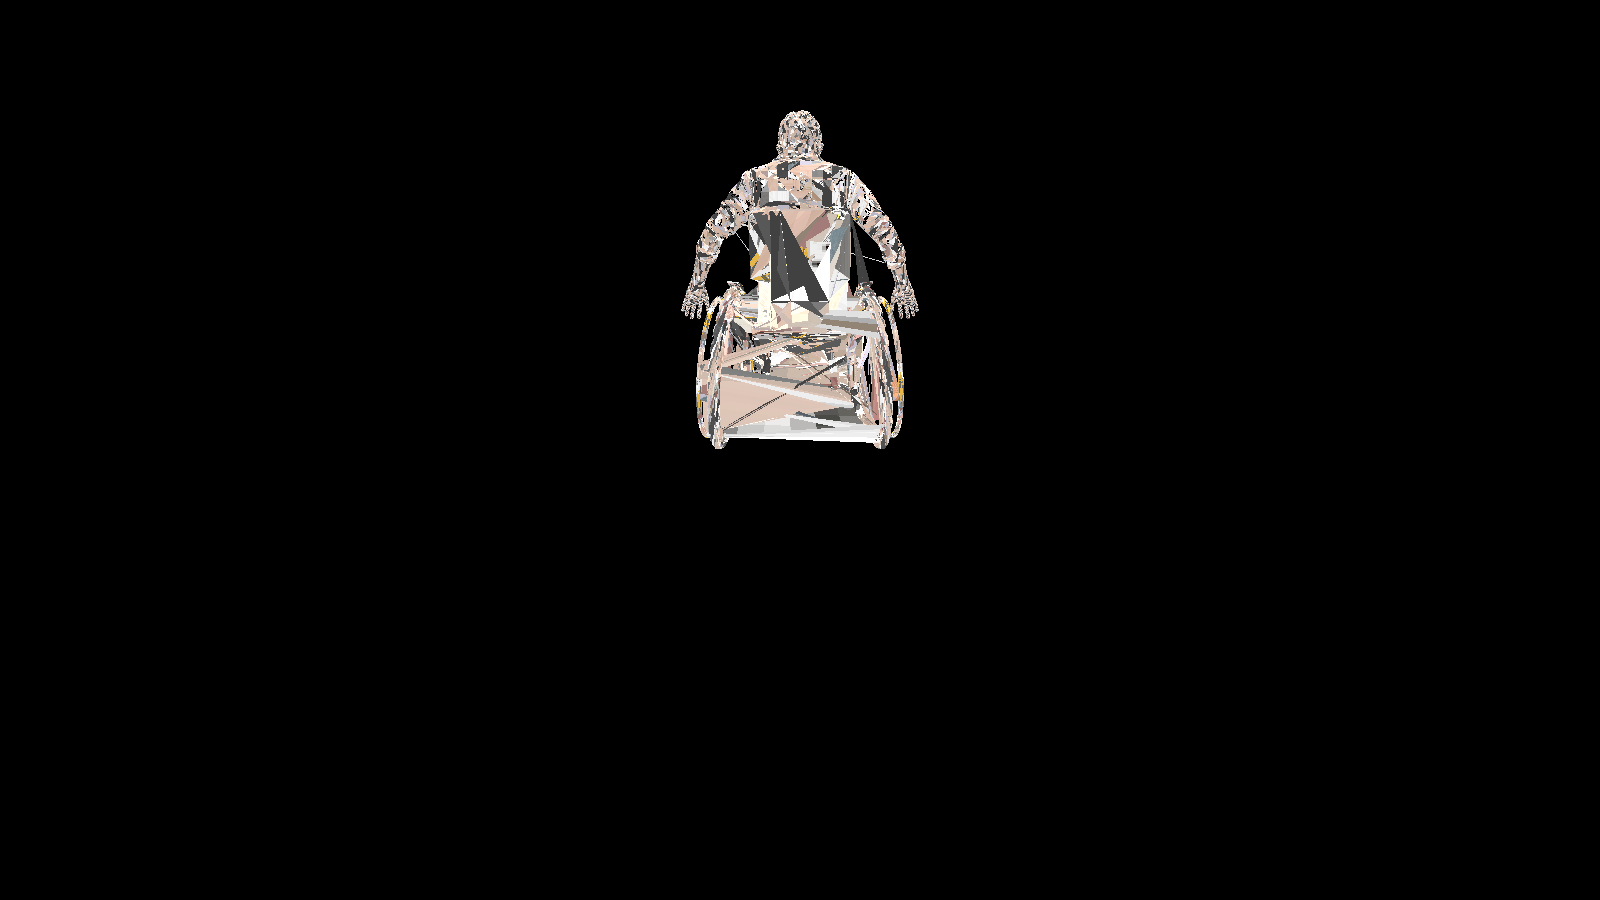
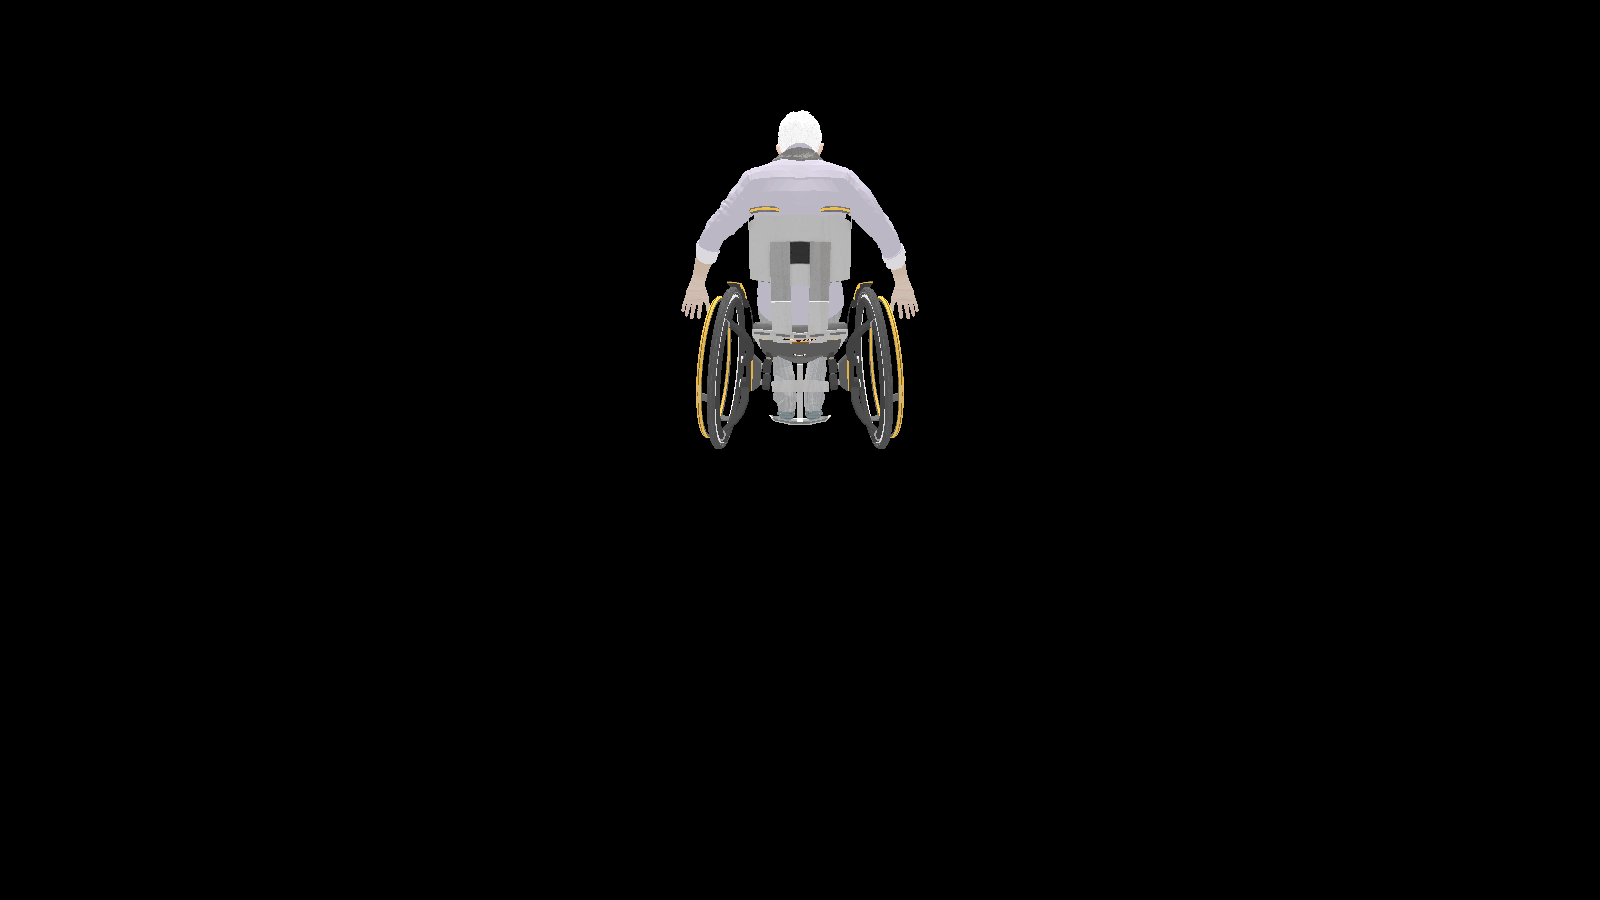
Now i read Obj files and mtl, this is going to get crazy

Changed region(s): [[0.4062, 0.1244, 0.5938, 0.4978]]

diff --git a/RaytracerV07/src/edu/up/isgc/raytracer/files/Obj.java b/RaytracerV07/src/edu/up/isgc/raytracer/files/Obj.java
@@ -1,16 +1,31 @@
 package edu.up.isgc.raytracer.files;
 
 import edu.up.isgc.raytracer.Vector3D;
+import edu.up.isgc.raytracer.lighting.Material;
+import edu.up.isgc.raytracer.shapes.Triangle;
 import edu.up.isgc.raytracer.shapes.models.Face;
 import edu.up.isgc.raytracer.shapes.models.Polygon;
 import edu.up.isgc.raytracer.world.Scene;
 
+import java.awt.*;
+import java.io.BufferedReader;
+import java.io.File;
+import java.io.FileReader;
+import java.io.IOException;
+import java.util.ArrayList;
+import java.util.HashMap;
+import java.util.Map;
+import java.util.regex.Pattern;
+
 public class Obj {
+    /*
     public static void RenderObj(Scene scene, String objPath, String mtlPath){
         MTLReader.readMTL(mtlPath);
         scene.addPolygon(new Polygon(objPath));
         Face.clearMaterialMap();
     }
+
+     */
 
     public static void RenderObj(Scene scene, String objPath, String mtlPath, Vector3D rotate, Vector3D scale, Vector3D translation){
         MTLReader.readMTL(mtlPath);
@@ -23,4 +38,217 @@ public class Obj {
         scene.addPolygon(polygon);
         Face.clearMaterialMap();
     }
+
+    // First method: Reads OBJ file and collects data
+    public static ObjData readObjData(String filePath) {
+        ObjData objData = new ObjData();
+        Pattern vertex = Pattern.compile("^v[^a-zA-Z]*");
+        Pattern texture = Pattern.compile("^vt[^a-zA-Z]*");
+        Pattern normal = Pattern.compile("^vn[^a-zA-Z]*");
+        Pattern face = Pattern.compile("^f[^a-zA-Z]*");
+        Pattern mtl = Pattern.compile("^usemtl\\s+.+");
+
+        try (BufferedReader br = new BufferedReader(new FileReader(filePath))) {
+            String line;
+            while ((line = br.readLine()) != null) {
+                line = line.trim();
+
+                if (line.matches(vertex.pattern())) {
+                    Double[] vertexData = FileRead.normalizeDouble(line);
+                    if (vertexData != null) objData.vertices.add(vertexData);
+                }
+                else if (line.matches(texture.pattern())) {
+                    Double[] texCoord = FileRead.normalizeDouble(line);
+                    if (texCoord != null) objData.texCoords.add(texCoord);
+                }
+                else if (line.matches(normal.pattern())) {
+                    Double[] normalVec = FileRead.normalizeDouble(line);
+                    if (normalVec != null) objData.normals.add(normalVec);
+                }
+                else if (line.matches(mtl.pattern())) {
+                    objData.currentMaterial = line.split("\\s+")[1];
+                    System.out.println("Material: " + objData.currentMaterial);
+                }
+                else if (line.matches(face.pattern())) {
+                    Integer[][] faceData = FileRead.normalizeInteger(line);
+                    if (faceData != null) {
+                        objData.faces.add(new FaceData(
+                                faceData[0],
+                                faceData[1],
+                                faceData[2],
+                                objData.currentMaterial
+                        ));
+                    }
+                }
+            }
+        } catch (IOException e) {
+            e.printStackTrace();
+            return null;
+        }
+        return objData;
+    }
+
+    // Second method: Creates triangles from collected data
+    public static Polygon createPolygonFromObjData(ObjData objData) {
+        if (objData == null) return null;
+
+        ArrayList<Triangle> triangles = new ArrayList<>();
+
+        for (FaceData face : objData.faces) {
+            Material material = Material.findByName(face.materialName);
+            if (material == null) {
+                System.err.println("Warning: Material not found - " + face.materialName);
+                material = null; // Default material
+            }
+
+            // Handle both triangles and quads
+            int numTriangles = face.vertexIndices.length == 3 ? 1 : 2;
+
+            for (int i = 0; i < numTriangles; i++) {
+                int[] triVertexIndices;
+                int[] triTexIndices;
+                int[] triNormalIndices;
+
+                if (numTriangles == 1) {
+                    // Single triangle
+                    triVertexIndices = new int[]{face.vertexIndices[0], face.vertexIndices[1], face.vertexIndices[2]};
+                    triTexIndices = new int[]{face.texIndices[0], face.texIndices[1], face.texIndices[2]};
+                    triNormalIndices = new int[]{face.normalIndices[0], face.normalIndices[1], face.normalIndices[2]};
+                } else {
+                    // Quad - split into two triangles
+                    if (i == 0) {
+                        triVertexIndices = new int[]{face.vertexIndices[0], face.vertexIndices[1], face.vertexIndices[2]};
+                        triTexIndices = new int[]{face.texIndices[0], face.texIndices[1], face.texIndices[2]};
+                        triNormalIndices = new int[]{face.normalIndices[0], face.normalIndices[1], face.normalIndices[2]};
+                    } else {
+                        triVertexIndices = new int[]{face.vertexIndices[0], face.vertexIndices[2], face.vertexIndices[3]};
+                        triTexIndices = new int[]{face.texIndices[0], face.texIndices[2], face.texIndices[3]};
+                        triNormalIndices = new int[]{face.normalIndices[0], face.normalIndices[2], face.normalIndices[3]};
+                    }
+                }
+
+                // Create the triangle
+                Triangle triangle = createTriangle(
+                        objData.vertices,
+                        objData.texCoords,
+                        objData.normals,
+                        triVertexIndices,
+                        triTexIndices,
+                        triNormalIndices,
+                        material
+                );
+
+                if (triangle != null) {
+                    triangles.add(triangle);
+                }
+            }
+        }
+
+        return new Polygon(triangles);
+    }
+
+    // Helper method to create a single triangle
+    private static Triangle createTriangle(
+            ArrayList<Double[]> vertices,
+            ArrayList<Double[]> texCoords,
+            ArrayList<Double[]> normals,
+            int[] vertexIndices,
+            int[] texIndices,
+            int[] normalIndices,
+            Material material
+    ) {
+        Vector3D[] triVertices = new Vector3D[3];
+        Vector3D[] triTexCoords = new Vector3D[3];
+        Vector3D[] triNormals = new Vector3D[3];
+
+        for (int j = 0; j < 3; j++) {
+            // Vertices (required)
+            triVertices[j] = new Vector3D(
+                    vertices.get(vertexIndices[j] - 1)[0],
+                    vertices.get(vertexIndices[j] - 1)[1],
+                    vertices.get(vertexIndices[j] - 1)[2]
+            );
+
+            // Texture coordinates (optional)
+            if (!texCoords.isEmpty() && texIndices[j] > 0) {
+                Double[] tex = texCoords.get(texIndices[j] - 1);
+                triTexCoords[j] = new Vector3D(tex[0], tex[1], tex.length > 2 ? tex[2] : 0);
+            }
+
+            // Normals (optional)
+            if (!normals.isEmpty() && normalIndices[j] > 0) {
+                Double[] norm = normals.get(normalIndices[j] - 1);
+                triNormals[j] = new Vector3D(norm[0], norm[1], norm[2]);
+            }
+        }
+
+        // Create the appropriate triangle based on available data
+        if (triTexCoords[0] != null && triNormals[0] != null) {
+            return new Triangle(
+                    triVertices[0], triVertices[1], triVertices[2],
+                    triNormals[0], triNormals[1], triNormals[2],
+                    triTexCoords[0], triTexCoords[1], triTexCoords[2],
+                    null, // parent polygon
+                    material
+            );
+        }
+        else if (triNormals[0] != null) {
+            return new Triangle(
+                    triVertices[0], triVertices[1], triVertices[2],
+                    triNormals[0], triNormals[1], triNormals[2],
+                    Color.WHITE, 0, 0, null
+            );
+        }
+        else {
+            return new Triangle(
+                    triVertices[0], triVertices[1], triVertices[2],
+                    Color.WHITE, 0, 0
+            );
+        }
+    }
+
+    // Data classes to hold intermediate OBJ data
+    private static class ObjData {
+        ArrayList<Double[]> vertices = new ArrayList<>();
+        ArrayList<Double[]> texCoords = new ArrayList<>();
+        ArrayList<Double[]> normals = new ArrayList<>();
+        ArrayList<FaceData> faces = new ArrayList<>();
+        String currentMaterial;
+    }
+
+    private static class FaceData {
+        Integer[] vertexIndices;
+        Integer[] texIndices;
+        Integer[] normalIndices;
+        String materialName;
+
+        FaceData(Integer[] vertexIndices, Integer[] texIndices, Integer[] normalIndices, String materialName) {
+            this.vertexIndices = vertexIndices;
+            this.texIndices = texIndices;
+            this.normalIndices = normalIndices;
+            this.materialName = materialName;
+        }
+    }
+
+    // Updated RenderObj method
+    public static void RenderObj(Scene scene, String objPath, String mtlPath) {
+        // Load materials first
+        if (mtlPath != null) {
+            MTLReader.readMTL(mtlPath);
+        }
+
+        // Read OBJ data
+        ObjData objData = readObjData(objPath);
+        if (objData == null) return;
+
+        // Create polygon from data
+        Polygon polygon = createPolygonFromObjData(objData);
+        if (polygon != null) {
+            scene.addPolygon(polygon);
+        }
+
+        // Clean up
+        Face.clearMaterialMap();
+    }
+
 }

diff --git a/RaytracerV07/src/edu/up/isgc/raytracer/files/FileRead.java b/RaytracerV07/src/edu/up/isgc/raytracer/files/FileRead.java
@@ -97,20 +97,29 @@ public class FileRead {
                     vertexNormalList.add(line);
                 } else if (line.matches(mtl.pattern())) {
                     currentMaterialName = line.split("\\s+")[1]; // store latest usemtl
-                    System.out.println("Material: " + line);
+                    System.out.println("Material: " + currentMaterialName);
                 } else if (line.matches(face.pattern())) {
                     faceList.add(line);
 
-                    // Count how many triangles this face will produce (1 for triangles, 2 for quads)
-                    String[] parts = line.split("\\s+");
-                    int numTriangles = (parts.length - 1 == 4) ? 2 : 1; // 4 vertices = quad
-
+                    // Get current material (or default if none specified)
                     Material material = Material.findByName(currentMaterialName);
-                    for (int i = 0; i < numTriangles; i++) {
-                        System.out.println("$$$$$ Adding material to face number: " + mtlFaceCount);
-                        materialMap.put(mtlFaceCount, material);
-                        mtlFaceCount++;
+                    if (material == null) {
+                        material = null; // Default material
+                        System.err.println("Warning: Using default material for face " + mtlFaceCount);
                     }
+
+                    // Count triangles this face produces
+                    String[] parts = line.split("\\s+");
+                    boolean isQuad = (parts.length - 1 == 4);
+
+                    // Assign material to each generated triangle
+                    materialMap.put(mtlFaceCount, material);
+                    if (isQuad) {
+                        materialMap.put(mtlFaceCount + 1, material);
+                    }
+
+                    // Increment counter (by 1 for triangle, 2 for quad)
+                    mtlFaceCount += isQuad ? 2 : 1;
                 }
             }
         } catch (IOException e) {

diff --git a/RaytracerV07/src/edu/up/isgc/raytracer/shapes/models/Polygon.java b/RaytracerV07/src/edu/up/isgc/raytracer/shapes/models/Polygon.java
@@ -29,7 +29,11 @@ public class Polygon {
     private Vector3D position = Vector3D.getZero();
 
     public Polygon(ArrayList<Triangle> shape){
+        this.color = Color.magenta;
         this.setShape(shape);
+        for(Triangle t : shape){
+            t.setParent(this);
+        }
     }
 
     public Polygon(String filePath){
@@ -71,7 +75,7 @@ public class Polygon {
                             Double[] nV2 = NormalVertex.getNormalVertexes().get(normal2);
                             Double[] nV3 = NormalVertex.getNormalVertexes().get(normal3);
 
-                            System.out.println("CREATING NEW FACE WITH: " + faceCount);
+                            //System.out.println("Face: " + faceCount + " // Material: " + Face.findMaterialByIndex(faceCount).getName());
                             shape.add(new Triangle(
                                     new Vector3D(v1[0], v1[1], v1[2]),
                                     new Vector3D(v2[0], v2[1], v2[2]),

diff --git a/RaytracerV07/src/edu/up/isgc/raytracer/lighting/Material.java b/RaytracerV07/src/edu/up/isgc/raytracer/lighting/Material.java
@@ -108,10 +108,10 @@ public class Material {
     }
 
     public static Material findByName(String name){
-        System.out.println("Searching for material with name " + name);
+        //System.out.println("Searching for material with name " + name);
         Material material = Material.getMtlDictionary().get(name);
-        if (material == null) System.out.println("MATERIAL NOT FOUND");
-        if (material != null) System.out.println("MATERIAL FOUND: " + material);
+        //if (material == null) System.out.println("MATERIAL NOT FOUND");
+        //if (material != null) System.out.println("MATERIAL FOUND: " + material);
         return material;
     }
 }
